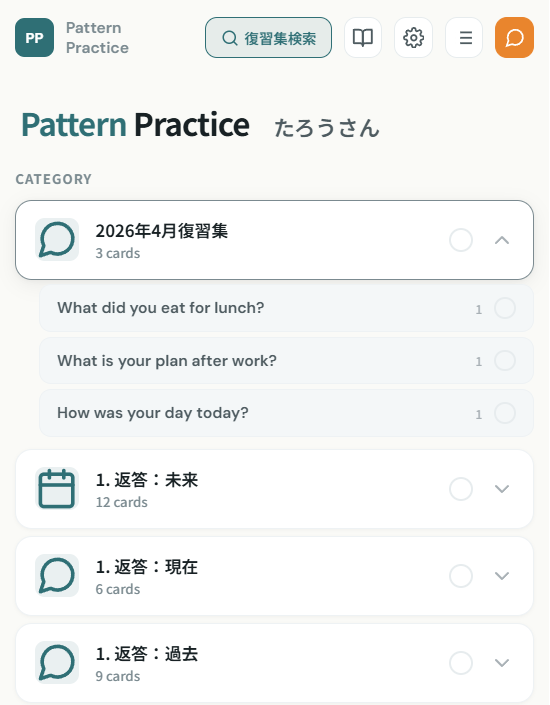
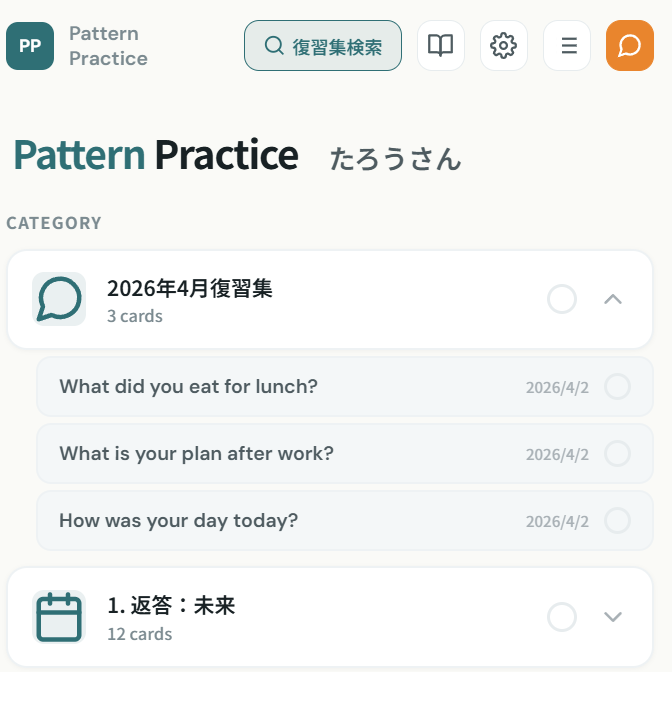
fix: 復習集セクションの作成日表示・マニュアル画像更新
- createdAt を ISO 形式で出力し日付パース安定化
- console.log デバッグ削除
- 受講生マニュアル11-category-expanded画像を最新に差し替え

diff --git a/src/lib/practice-v2-card.ts b/src/lib/practice-v2-card.ts
@@ -8,7 +8,7 @@ export function practiceCardFromPattern(
   return {
     id: `db-${p.id}`,
     section: sectionTitleEn,
-    createdAt: p.created_at ? String(p.created_at) : null,
+    createdAt: p.created_at ? (p.created_at instanceof Date ? p.created_at.toISOString() : String(p.created_at)) : null,
     trigger: p.fpp_question,
     triggerAudio: p.has_trigger_audio ? `/api/audio/${p.id}?type=fpp_question` : '',
     triggerJa: p.situation || '',
